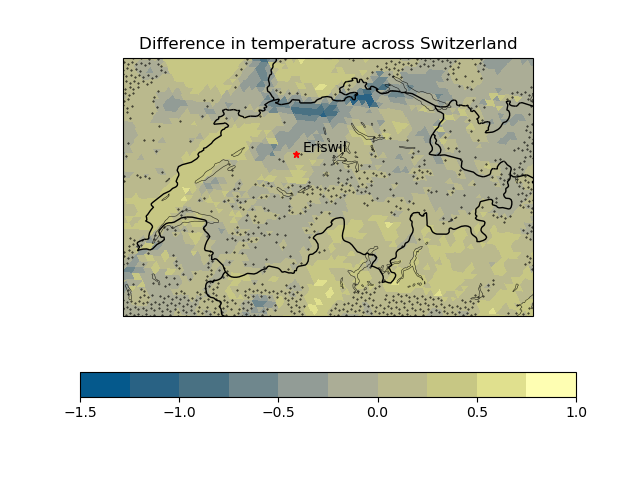
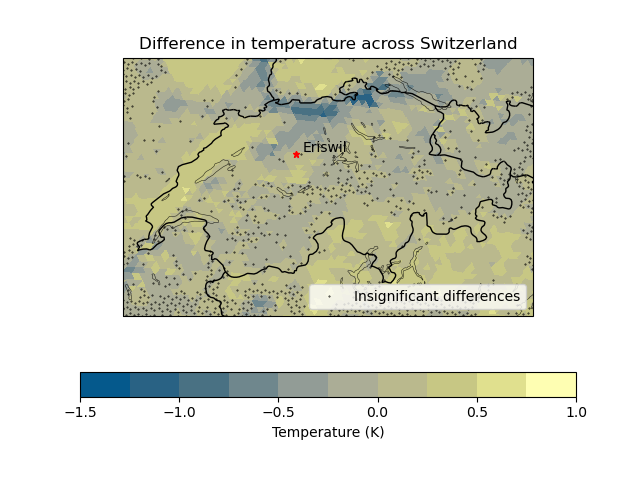
Add legend for markers of sig/insig data points

Changed region(s): [[0.4688, 0.5938, 0.8438, 0.6562], [0.4375, 0.875, 0.5938, 0.9375]]

diff --git a/difference_map/difference_map.py b/difference_map/difference_map.py
@@ -8,6 +8,7 @@ import psyplot.project as psy
 import xarray as xr
 import cartopy.feature as cf
 import cmcrameri.cm as cmc
+from matplotlib.lines import Line2D
 
 data_dir = Path(Path(__file__).resolve().parents[1], 'modules')
 sys.path.insert(1, str(data_dir))
@@ -66,10 +67,13 @@ if __name__ == "__main__":
                 'map, cmap (opt): name of colorbar\n'+\
                 'map, diff (opt): relative difference with input diff=rel, else absolute difference\n'+\
                 'map, sig (opt): marks significant (sig=1) or insignificant (sig=2) data points\n'+\
+                'map, sig_leg (opt): add legend for significant markers\n'+\
+                'map, leg_loc (opt): location of legend for significant markers\n'+\
                 'map, alpha (opt): significance level (default 0.05)\n'+\
                 'map, col (opt): color of markers for sig/insig data points\n'+\
                 'map, marker (opt): marker for sig/insig data points\n'+\
                 'map, markersize (opt): marker size of markers for sig/insig data points\n'+\
+                'map, clabel (opt): label of colorbar\n'+\
                 'coord, name (opt): add markers at certain locations (several inputs possible)\n'+\
                 'coord, lon/lat (opt): lon and lat of the locations\n'+\
                 'coord, marker (opt): marker specifications for all locations\n'+\
@@ -187,6 +191,8 @@ if __name__ == "__main__":
         pp.update(title=map['title'])
     if 'cmap' in map.keys():
         pp.update(cmap=map['cmap'])
+    if 'clabel' in map.keys():
+        pp.update(clabel=map['clabel'])
     pp.update(borders=True, lakes=True, rivers=False)
 
     fig = plt.gcf()
@@ -216,8 +222,10 @@ if __name__ == "__main__":
         pfdr = wilks(pvals, map['alpha'])
         if map['sig'] == 1:
             sig = np.argwhere(pvals < pfdr)
+            sig_leg = 'Significant differences'
         elif map['sig'] == 2:
             sig = np.argwhere((np.isnan(pvals)) | (pvals > pfdr))
+            sig_leg = 'Insignificant differences'
         else:
             sys.exit('Invalid number for map,sig')
         for i in sig:
@@ -231,6 +239,9 @@ if __name__ == "__main__":
                              marker=map['marker'],
                              markersize=map['markersize'],
                              transform=fig.axes[0].transAxes)
+        if map['sig_leg']:
+            leg_el = [Line2D([0], [0], marker=map['marker'], color='None', label=sig_leg, markerfacecolor=map['col'], markersize=map['markersize'])]
+            fig.axes[0].legend(handles=leg_el, loc=map['leg_loc'])
 
 #############
 

diff --git a/modules/config.py b/modules/config.py
@@ -76,6 +76,14 @@ def read_config(config_path):
         map['sig'] = config.getint('map', 'sig')
     else:
         map['sig'] = 0
+    if config.has_option('map', 'sig_leg'):
+        map['sig_leg'] = config.getboolean('map', 'sig_leg')
+    else:
+        map['sig_leg'] = 0
+    if config.has_option('map', 'leg_loc'):
+        map['leg_loc'] = config.get('map', 'leg_loc')
+    else:
+        map['leg_loc'] = 'best'
     if config.has_option('map', 'alpha'):
         map['alpha'] = config.getfloat('map', 'alpha')
     else:
